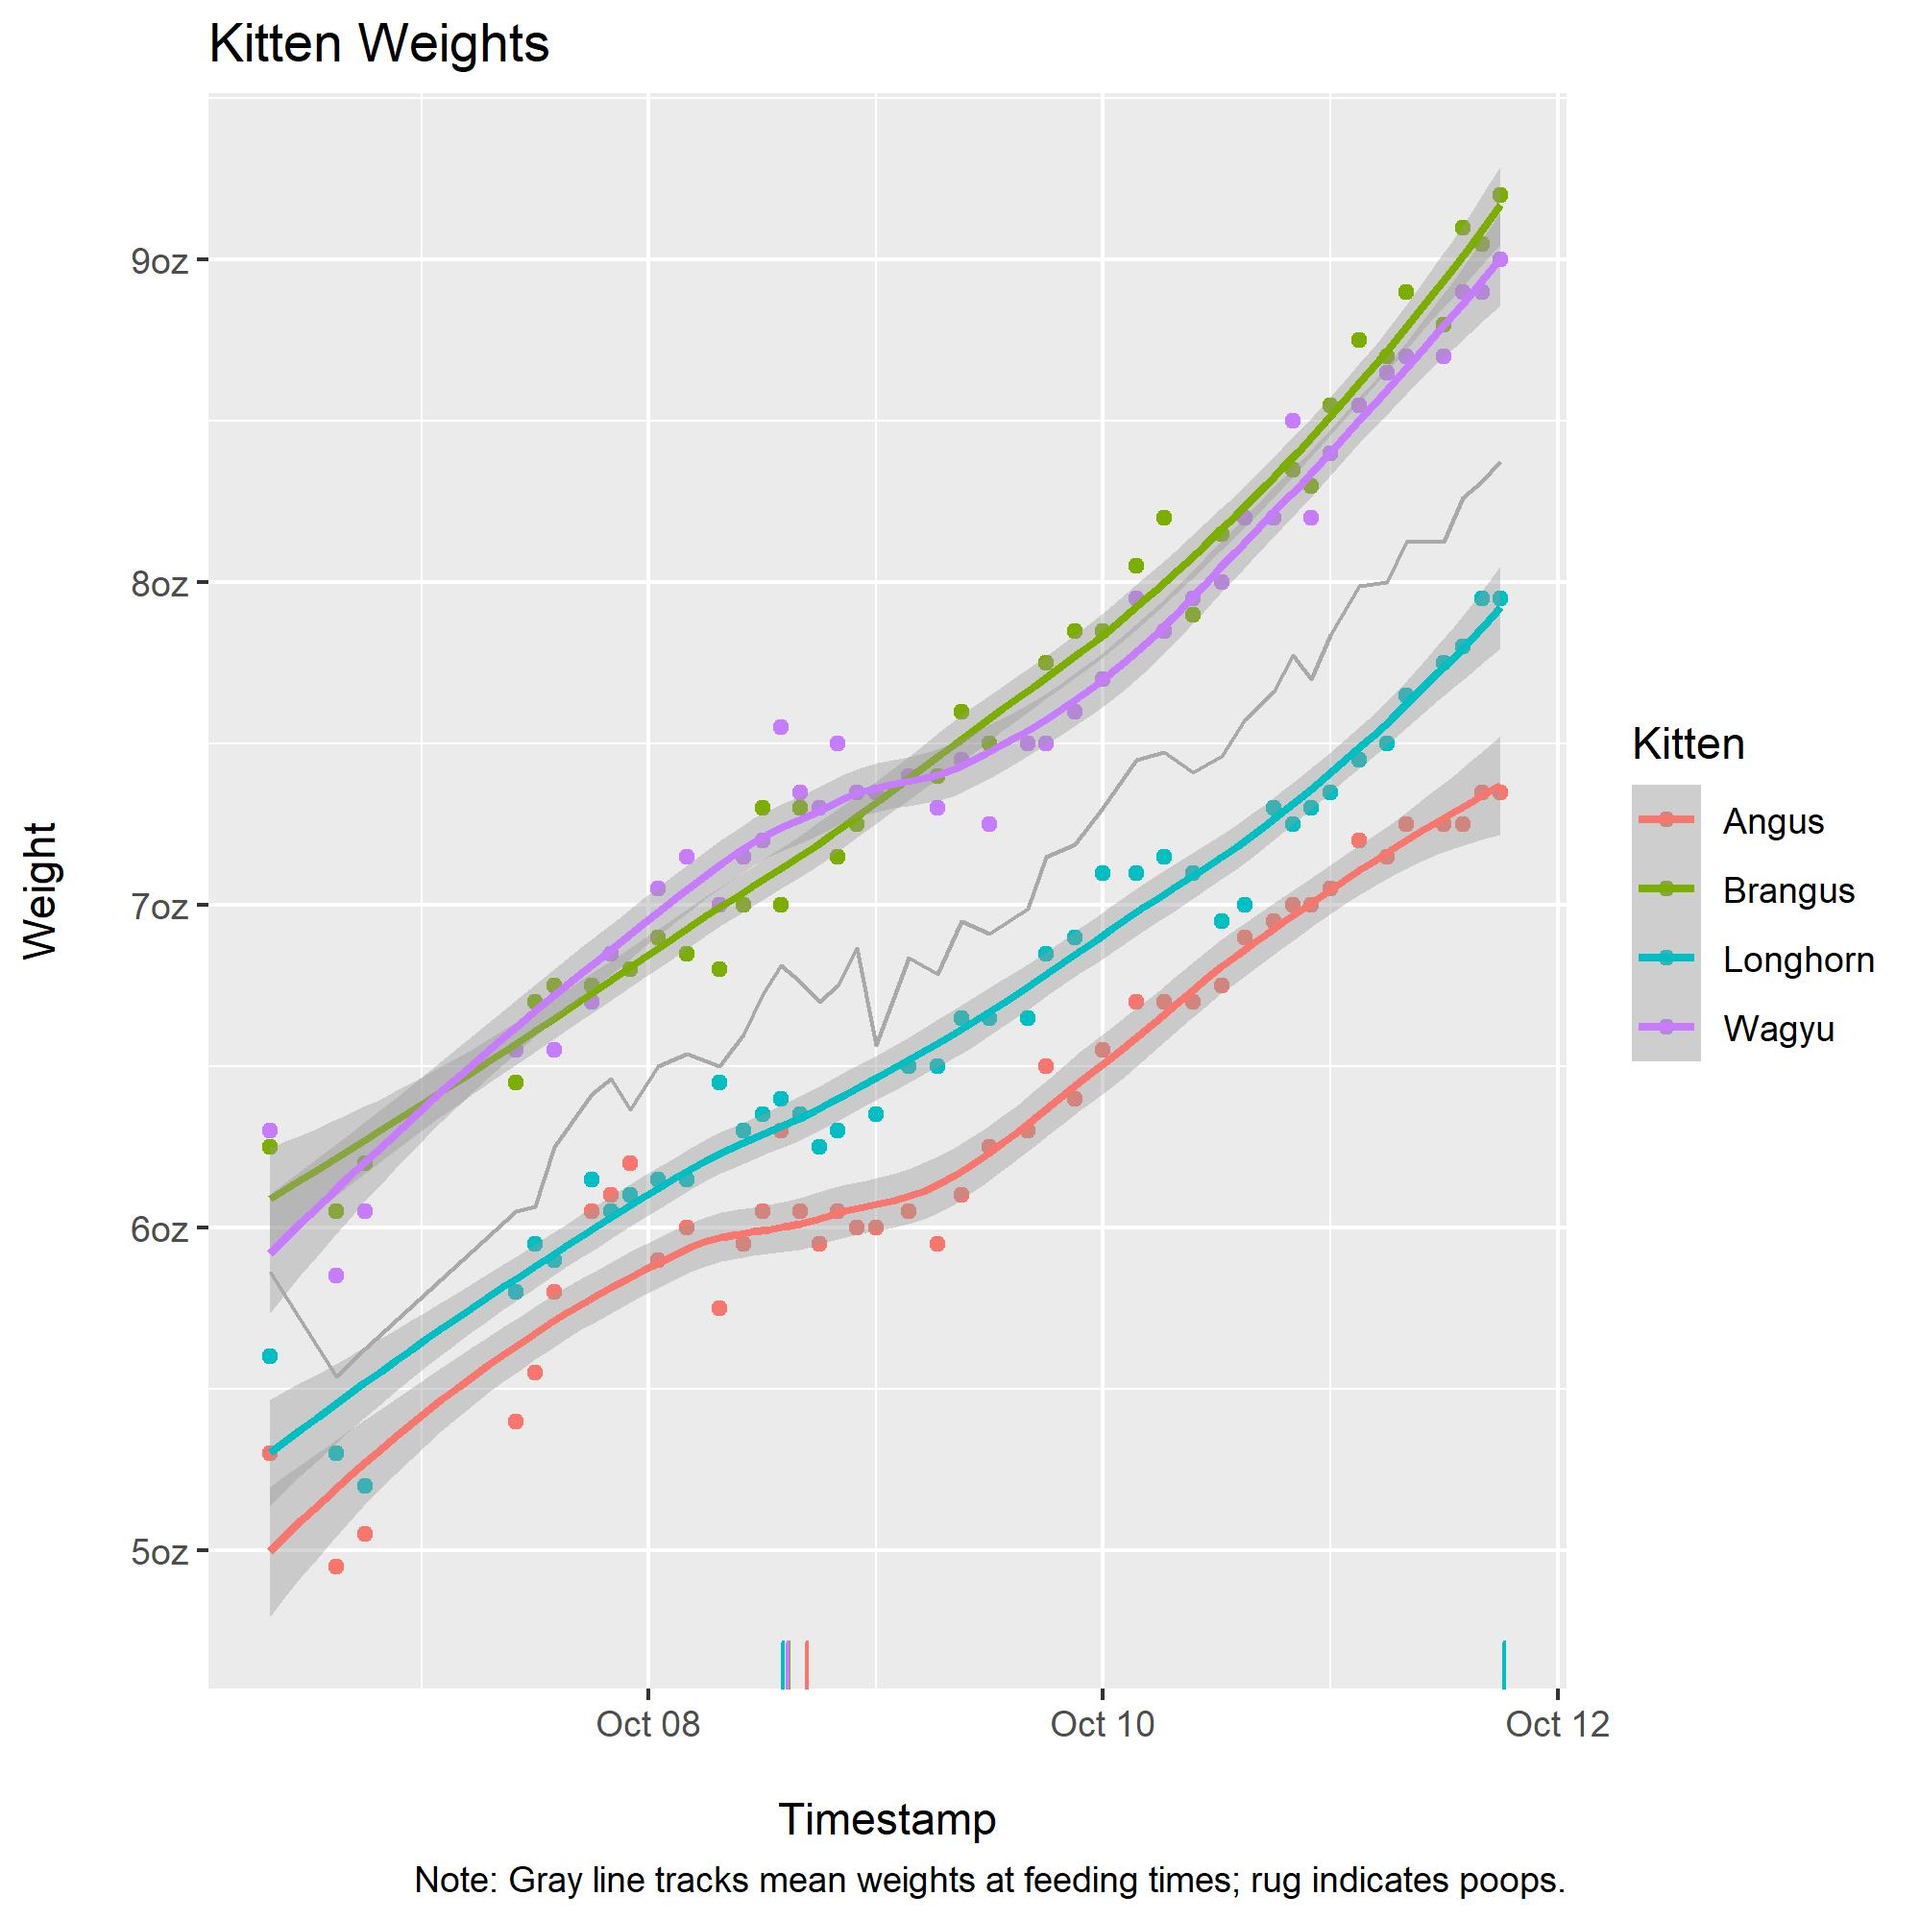
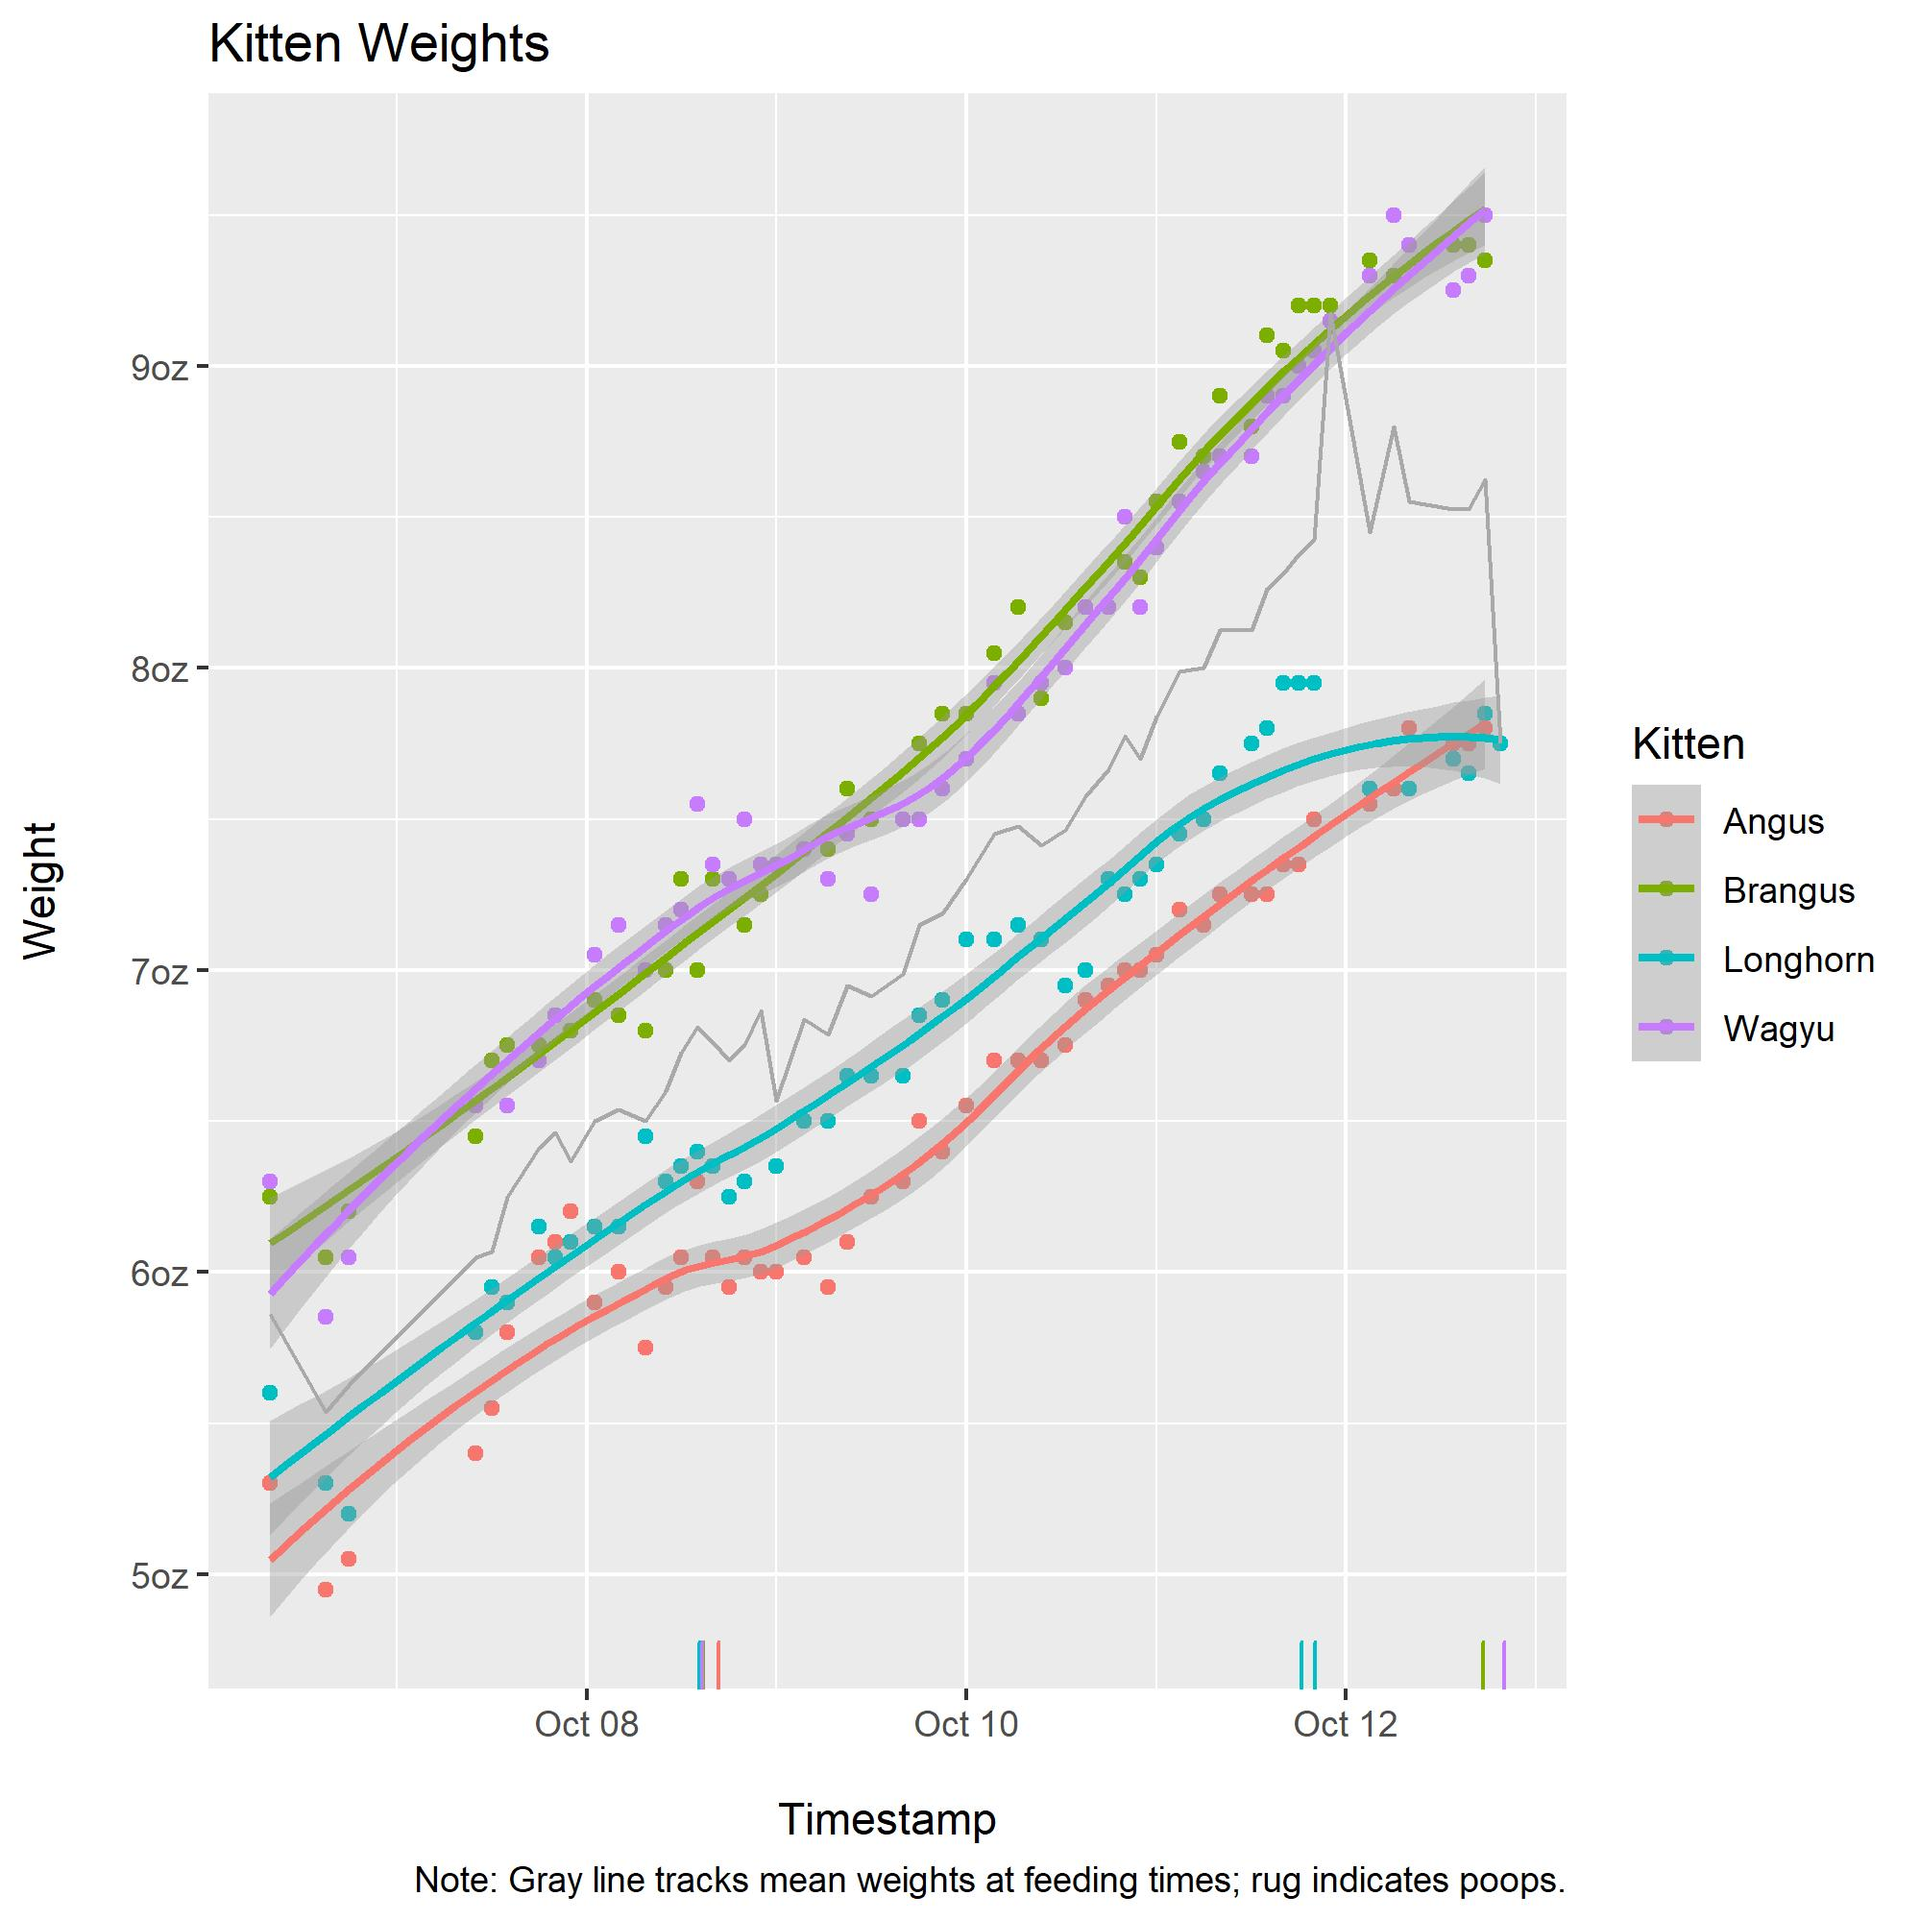
Feeding update

diff --git a/readme.md b/readme.md
@@ -44,7 +44,7 @@ Current Avg. Weight
 
 <td style="text-align:left;">
 
-8.38oz
+8.66oz
 
 </td>
 
@@ -60,7 +60,7 @@ Avg. Std. Deviation Between Kitten Weights
 
 <td style="text-align:left;">
 
-0.64oz
+NAlb NAoz
 
 </td>
 
@@ -76,7 +76,7 @@ Avg. Gain per Feeding per Kitty
 
 <td style="text-align:left;">
 
-0.07oz
+0.06oz
 
 </td>
 
@@ -92,7 +92,7 @@ Avg. Gain per Day per Kitty
 
 <td style="text-align:left;">
 
-0.47oz
+0.44oz
 
 </td>
 
@@ -108,7 +108,7 @@ Avg. Time Between Feedings
 
 <td style="text-align:left;">
 
-2H 51M
+2H 48M
 
 </td>
 
@@ -124,7 +124,7 @@ Expected Avg. Weight at 3 Years of Age
 
 <td style="text-align:left;">
 
-33lb 6oz
+33lb 9oz
 
 </td>
 
